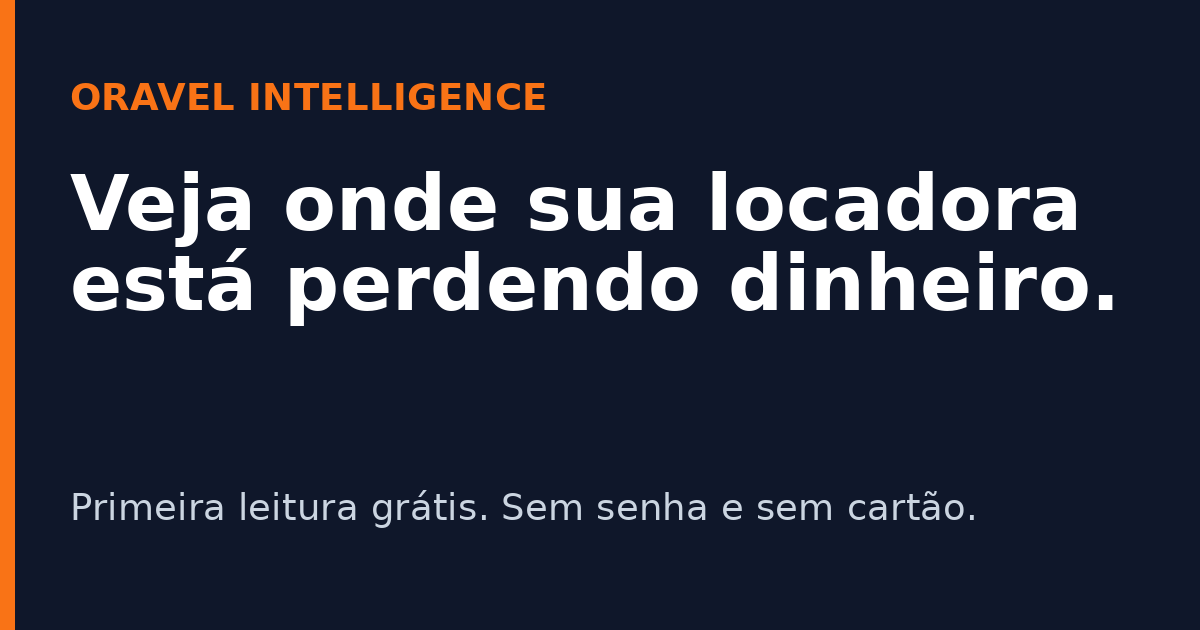
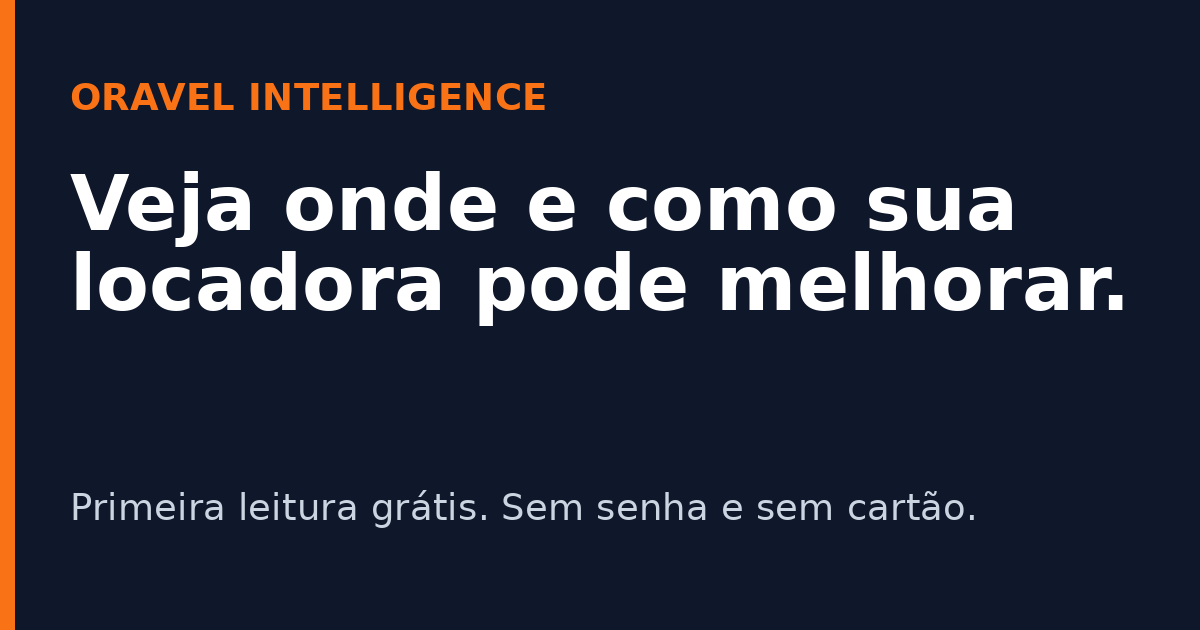
feat(site): título positivo no hero ("Veja onde e como sua locadora pode melhorar")

Changed region(s): [[0.0617, 0.2714, 0.9558, 0.5127]]

diff --git a/public_html/intelligence/index.html b/public_html/intelligence/index.html
@@ -3,21 +3,21 @@
 <head>
 <meta charset="UTF-8">
 <meta name="viewport" content="width=device-width, initial-scale=1">
-<title>Oravel Intelligence: veja onde sua locadora está perdendo dinheiro | Oravel</title>
+<title>Oravel Intelligence: veja onde e como sua locadora pode melhorar | Oravel</title>
 <meta name="description" content="Envie sua planilha e receba a leitura da sua locadora em minutos: equipamentos parados, manutenção cara e o que vender, trocar ou reformar. Primeira leitura grátis.">
 <link rel="canonical" href="https://oravel.com.br/intelligence/">
 <meta property="og:type" content="website">
 <meta property="og:locale" content="pt_BR">
 <meta property="og:site_name" content="Oravel">
-<meta property="og:title" content="Oravel Intelligence: veja onde sua locadora está perdendo dinheiro">
+<meta property="og:title" content="Oravel Intelligence: veja onde e como sua locadora pode melhorar">
 <meta property="og:description" content="Envie sua planilha e receba a leitura da sua locadora em minutos: equipamentos parados, manutenção cara e o que vender, trocar ou reformar. Primeira leitura grátis.">
 <meta property="og:url" content="https://oravel.com.br/intelligence/">
 <meta property="og:image" content="https://oravel.com.br/intelligence/og-intelligence.png">
 <meta property="og:image:width" content="1200">
 <meta property="og:image:height" content="630">
-<meta property="og:image:alt" content="Veja onde sua locadora está perdendo dinheiro.">
+<meta property="og:image:alt" content="Veja onde e como sua locadora pode melhorar.">
 <meta name="twitter:card" content="summary_large_image">
-<meta name="twitter:title" content="Oravel Intelligence: veja onde sua locadora está perdendo dinheiro">
+<meta name="twitter:title" content="Oravel Intelligence: veja onde e como sua locadora pode melhorar">
 <meta name="twitter:description" content="Envie sua planilha e receba a leitura da sua locadora em minutos: equipamentos parados, manutenção cara e o que vender, trocar ou reformar. Primeira leitura grátis.">
 <meta name="twitter:image" content="https://oravel.com.br/intelligence/og-intelligence.png">
 <link rel="icon" href="/favicon.ico" sizes="any">
@@ -25,7 +25,7 @@
 <link rel="apple-touch-icon" href="/apple-touch-icon.png">
 <link rel="preconnect" href="https://fonts.googleapis.com"><link rel="preconnect" href="https://fonts.gstatic.com" crossorigin>
 <link href="https://fonts.googleapis.com/css2?family=Manrope:wght@700;800&family=Inter:wght@400;500;600;700&display=swap" rel="stylesheet">
-<script type="application/ld+json">{"<?php $__contextArgs = [];\nif (context()->has($__contextArgs[0])) :\nif (isset($value)) { $__contextPrevious[] = $value; }\n$value = context()->get($__contextArgs[0]); ?>":"https://schema.org","@type":"WebPage","name":"Oravel Intelligence: veja onde sua locadora está perdendo dinheiro","description":"Envie sua planilha e receba a leitura da sua locadora em minutos: equipamentos parados, manutenção cara e o que vender, trocar ou reformar. Primeira leitura grátis.","url":"https://oravel.com.br/intelligence/","inLanguage":"pt-BR"}</script>
+<script type="application/ld+json">{"<?php $__contextArgs = [];\nif (context()->has($__contextArgs[0])) :\nif (isset($value)) { $__contextPrevious[] = $value; }\n$value = context()->get($__contextArgs[0]); ?>":"https://schema.org","@type":"WebPage","name":"Oravel Intelligence: veja onde e como sua locadora pode melhorar","description":"Envie sua planilha e receba a leitura da sua locadora em minutos: equipamentos parados, manutenção cara e o que vender, trocar ou reformar. Primeira leitura grátis.","url":"https://oravel.com.br/intelligence/","inLanguage":"pt-BR"}</script>
 <style>:root{--paper:#fff;--surface:#f4f6f9;--ink:#0f172a;--ink-soft:#4b5563;--line:#e2e6ec;--accent:#f97316;--accent-ink:#b8420a;--accent-soft:#fff1e4;--navy:#0f172a;--navy-2:#0a1226;--ok:#15803d;--ok-soft:#dcfce7;--bad:#b91c1c;--bad-soft:#fee2e2;--warn:#a16207;--warn-soft:#fef3c7;--r:12px}
 *{box-sizing:border-box}html{scroll-behavior:smooth}
 body{margin:0;font-family:"Inter","Segoe UI",system-ui,sans-serif;color:var(--ink);background:var(--paper);line-height:1.55;-webkit-font-smoothing:antialiased;padding-bottom:84px}
@@ -151,7 +151,7 @@ dialog.form .fechar{position:absolute;right:10px;top:10px;border:0;background:tr
     <div class="wrap grid">
         <div>
             <div class="eyebrow">Para locadoras de equipamentos</div>
-            <h1 id="h-hero">Veja onde sua locadora está perdendo dinheiro.</h1>
+            <h1 id="h-hero">Veja onde e como sua locadora pode melhorar.</h1>
             <p class="sub">Envie sua planilha e receba a leitura em minutos. Sem trocar de sistema.</p>
             <p class="preco">Primeira leitura grátis. Para acompanhar mês a mês: <b>R$ 39,90/mês</b>.</p>
             <div class="acoes">
@@ -362,7 +362,7 @@ dialog.form .fechar{position:absolute;right:10px;top:10px;border:0;background:tr
 
 <section class="final" aria-labelledby="h-final">
     <div class="wrap">
-        <h2 id="h-final">Veja onde sua locadora está perdendo dinheiro.</h2>
+        <h2 id="h-final">Veja onde e como sua locadora pode melhorar.</h2>
         <p>Envie sua planilha e receba a leitura em minutos. Sem trocar de sistema.</p>
         <a class="btn" href="https://app.oravel.com.br/intelligence/teste-gratis" data-cta data-pos="final" data-track="Teste grátis: CTA final">Enviar minha planilha</a>
         <p class="micro" style="margin-top:12px;font-size:13px;margin-bottom:0">Leva 1 minuto. Sem senha e sem cartão.</p>

diff --git a/config/intelligence_site.php b/config/intelligence_site.php
@@ -44,7 +44,7 @@ return [
     'textos' => [
         'marca' => 'Oravel Intelligence',
         'eyebrow' => 'Para locadoras de equipamentos',
-        'hero_titulo' => 'Veja onde sua locadora está perdendo dinheiro.',
+        'hero_titulo' => 'Veja onde e como sua locadora pode melhorar.',
         'hero_subtitulo' => 'Envie sua planilha e receba a leitura em minutos. Sem trocar de sistema.',
         'cta' => 'Enviar minha planilha',
         'microtexto' => 'Leva 1 minuto. Sem senha e sem cartão.',
@@ -73,7 +73,7 @@ return [
             ['p' => 'Posso reenviar a planilha depois?', 'r' => 'Pode, quando quiser. Cada envio fica no histórico e nada é sobrescrito. Se o arquivo for idêntico a um que você já enviou, o sistema avisa e não grava de novo.'],
         ],
 
-        'titulo_pagina' => 'Oravel Intelligence: veja onde sua locadora está perdendo dinheiro',
+        'titulo_pagina' => 'Oravel Intelligence: veja onde e como sua locadora pode melhorar',
         'descricao_pagina' => 'Envie sua planilha e receba a leitura da sua locadora em minutos: equipamentos parados, manutenção cara e o que vender, trocar ou reformar. Primeira leitura grátis.',
     ],
 ];

diff --git a/tests/Feature/IntelligenceSitePaginaTest.php b/tests/Feature/IntelligenceSitePaginaTest.php
@@ -51,7 +51,7 @@ class IntelligenceSitePaginaTest extends TestCase
     public function test_pagina_tem_titulo_descricao_e_open_graph_para_compartilhar(): void
     {
         $h = $this->html();
-        $this->assertStringContainsString('Veja onde sua locadora está perdendo dinheiro.', $h);
+        $this->assertStringContainsString('Veja onde e como sua locadora pode melhorar.', $h);
         foreach (['<title>', 'name="description"', 'rel="canonical"', 'property="og:title"', 'property="og:description"', 'property="og:image"', 'name="twitter:card"'] as $tag) {
             $this->assertStringContainsString($tag, $h, "falta $tag");
         }
